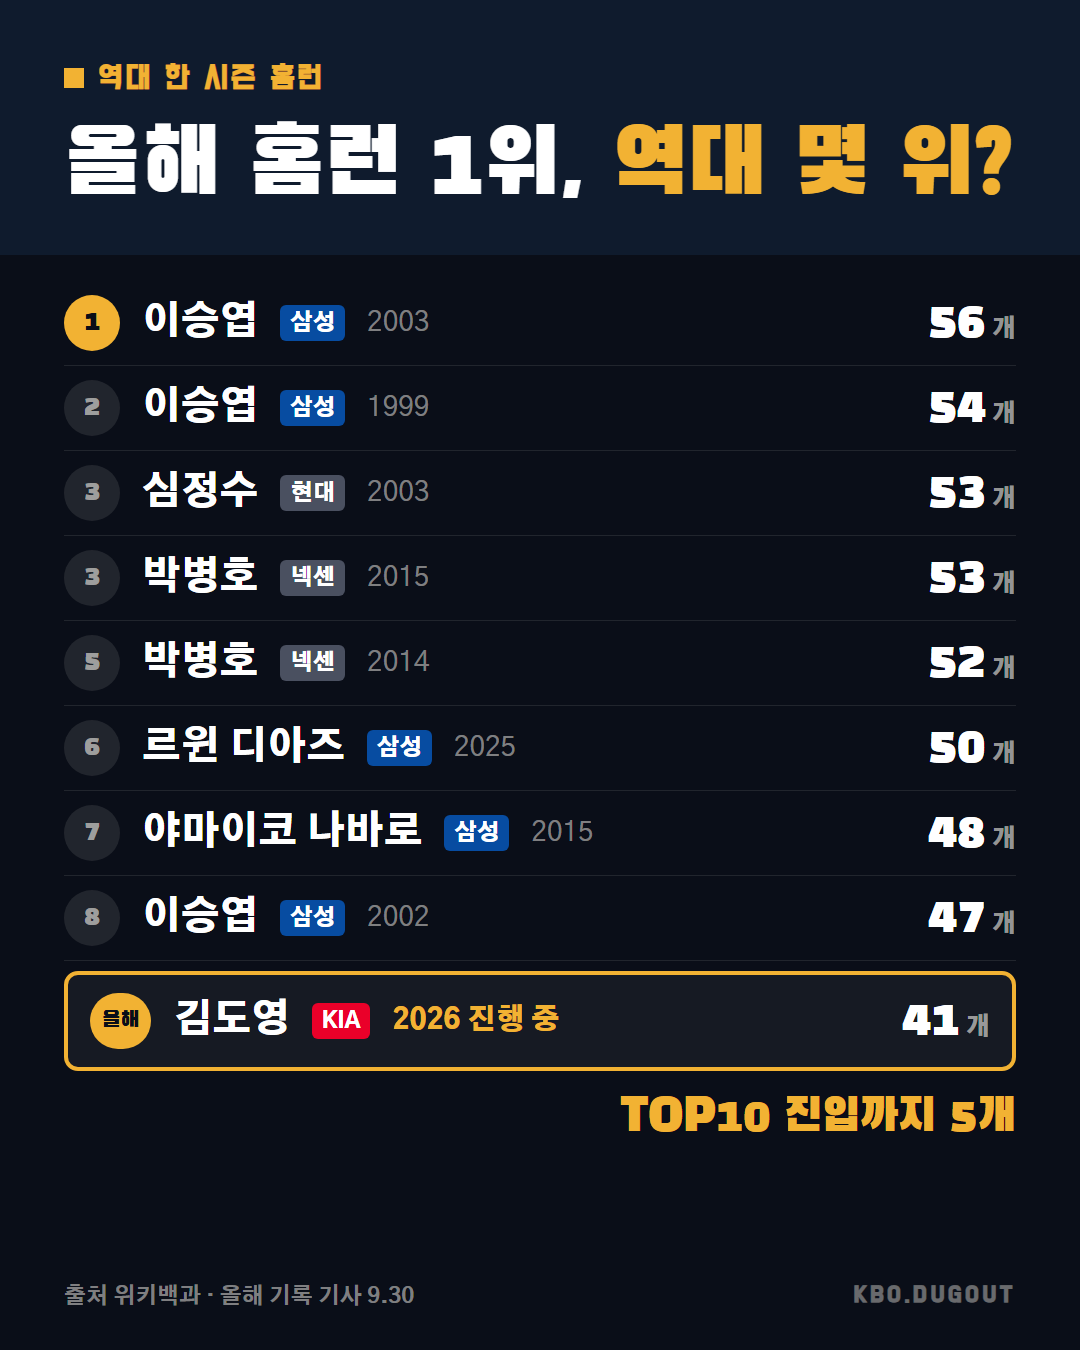
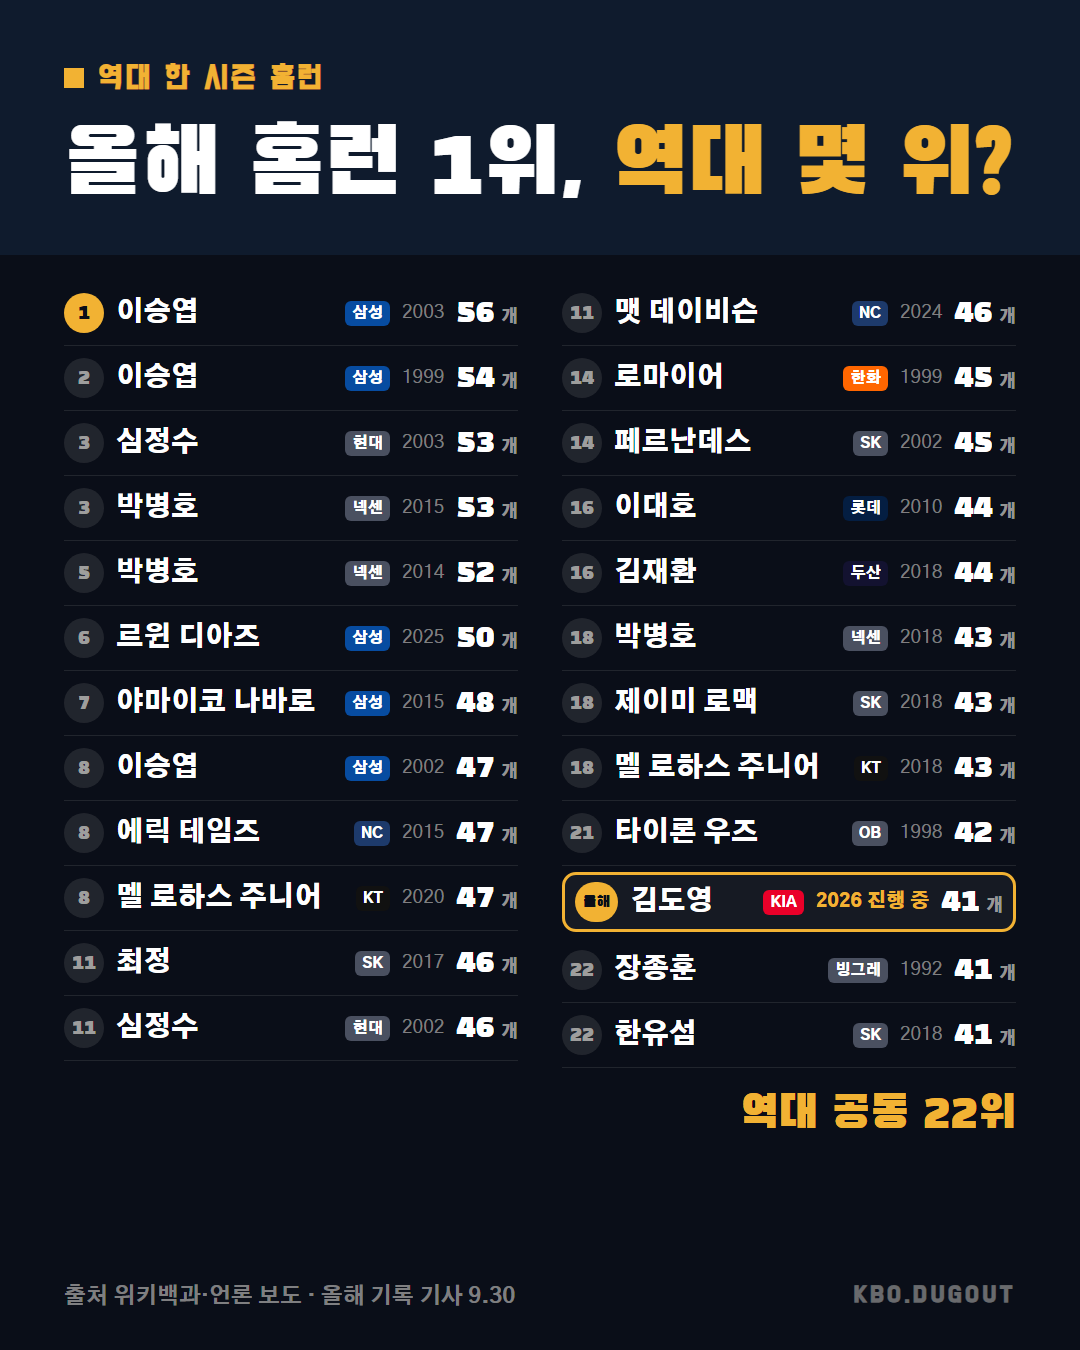
chore: publish review batch 705bbd40bc22

diff --git a/review/2026-09-30-705bbd40bc22.html b/review/2026-09-30-705bbd40bc22.html
@@ -1,0 +1,39 @@
+<!doctype html>
+<html lang="ko">
+<head>
+  <meta charset="utf-8">
+  <meta name="viewport" content="width=device-width, initial-scale=1">
+  <title>콘텐츠 검토</title>
+  <style>
+    * { box-sizing: border-box; }
+    body { margin: 0; background: #f3efe4; color: #182126; font-family: sans-serif; }
+    main { width: min(100%, 720px); margin: auto; padding: 24px 16px 48px; }
+    article { margin: 0 0 32px; padding-bottom: 32px; border-bottom: 1px solid #aaa397; }
+    .carousel { display: grid; gap: 12px; }
+    img { display: block; width: 100%; max-width: 100%; height: auto; }
+    .meta { color: #5f625e; font-size: .85rem; }
+    .body { white-space: pre-wrap; line-height: 1.65; }
+    .qa { padding: 12px; background: #e5ded0; }
+  </style>
+</head>
+<body><main><h1>콘텐츠 검토</h1><article>
+  <p class="meta">Draft #63</p>
+  <div class="carousel">
+    <img src="../cards/draft-63-01.png" alt="Draft #63 카드 1">
+  </div>
+  <p class="body">올해 타점 1위 힐리어드, 신기록까지 24타점. 올해 힐리어드, 신기록 깰 수 있을까?
+
+출처: 위키백과 (CC BY-SA) · 올해 기록 운영자 입력</p>
+  <p class="qa"><strong>QA</strong> 없음</p>
+</article>
+<article>
+  <p class="meta">Draft #64</p>
+  <div class="carousel">
+    <img src="../cards/draft-64-01.png" alt="Draft #64 카드 1">
+  </div>
+  <p class="body">올해 홈런 1위 김도영, 역대 공동 22위. 올해 김도영, 역대 몇 위까지 갈 수 있을까?
+
+출처: 위키백과·언론 보도 (위키백과 CC BY-SA) · 올해 기록 기사 9.30</p>
+  <p class="qa"><strong>QA</strong> 없음</p>
+</article></main></body>
+</html>
